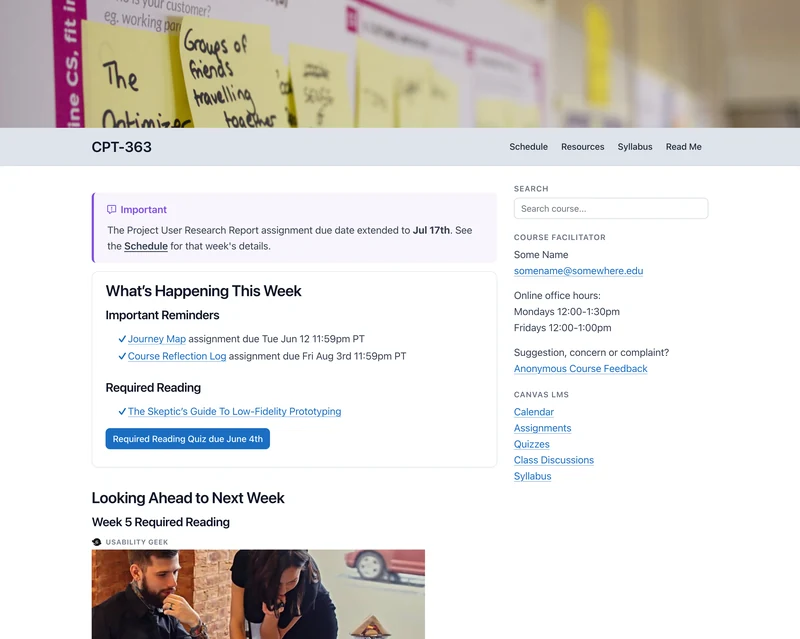
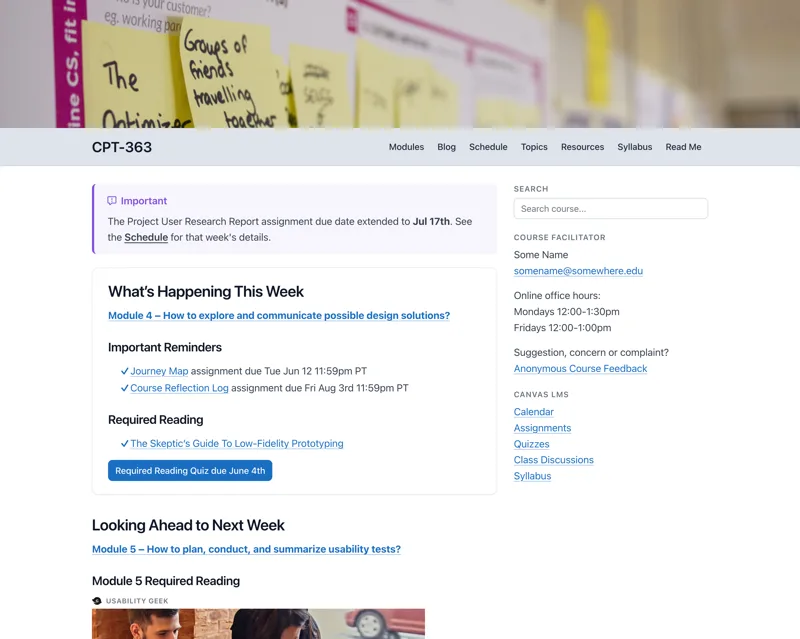
Update the Open Course Hub and MultiCourse Hub screenshots and rebuild the Cost-Free Grav Projects link preview image from the current demos.

diff --git a/cost-free-grav-projects.html b/cost-free-grav-projects.html
@@ -247,7 +247,7 @@
           <span class="badge green"><span aria-hidden="true">&#9733;</span> 47</span>
           <span class="badge green">Grav 2 &amp; 1.7</span>
         </div>
-        <div class="project-thumb"><a href="https://demo.hibbittsdesign.org/grav-open-course-hub" target="_blank" rel="noopener"><img src="assets/screenshots/grav-open-course-hub-thumb.webp" width="800" height="639" alt="Screenshot of the Grav Open Course Hub home page, showing a hero photo, course navigation, and upcoming due dates"></a></div>
+        <div class="project-thumb"><a href="https://demo.hibbittsdesign.org/grav-open-course-hub" target="_blank" rel="noopener"><img src="assets/screenshots/grav-open-course-hub-thumb.webp" width="800" height="639" alt="Screenshot of the Grav Open Course Hub home page, showing a header photo, Modules and Blog in the course navigation, and links to this week's module"></a></div>
       </div>
       <div class="project-body">
         <h3>Grav Open Course Hub</h3>
